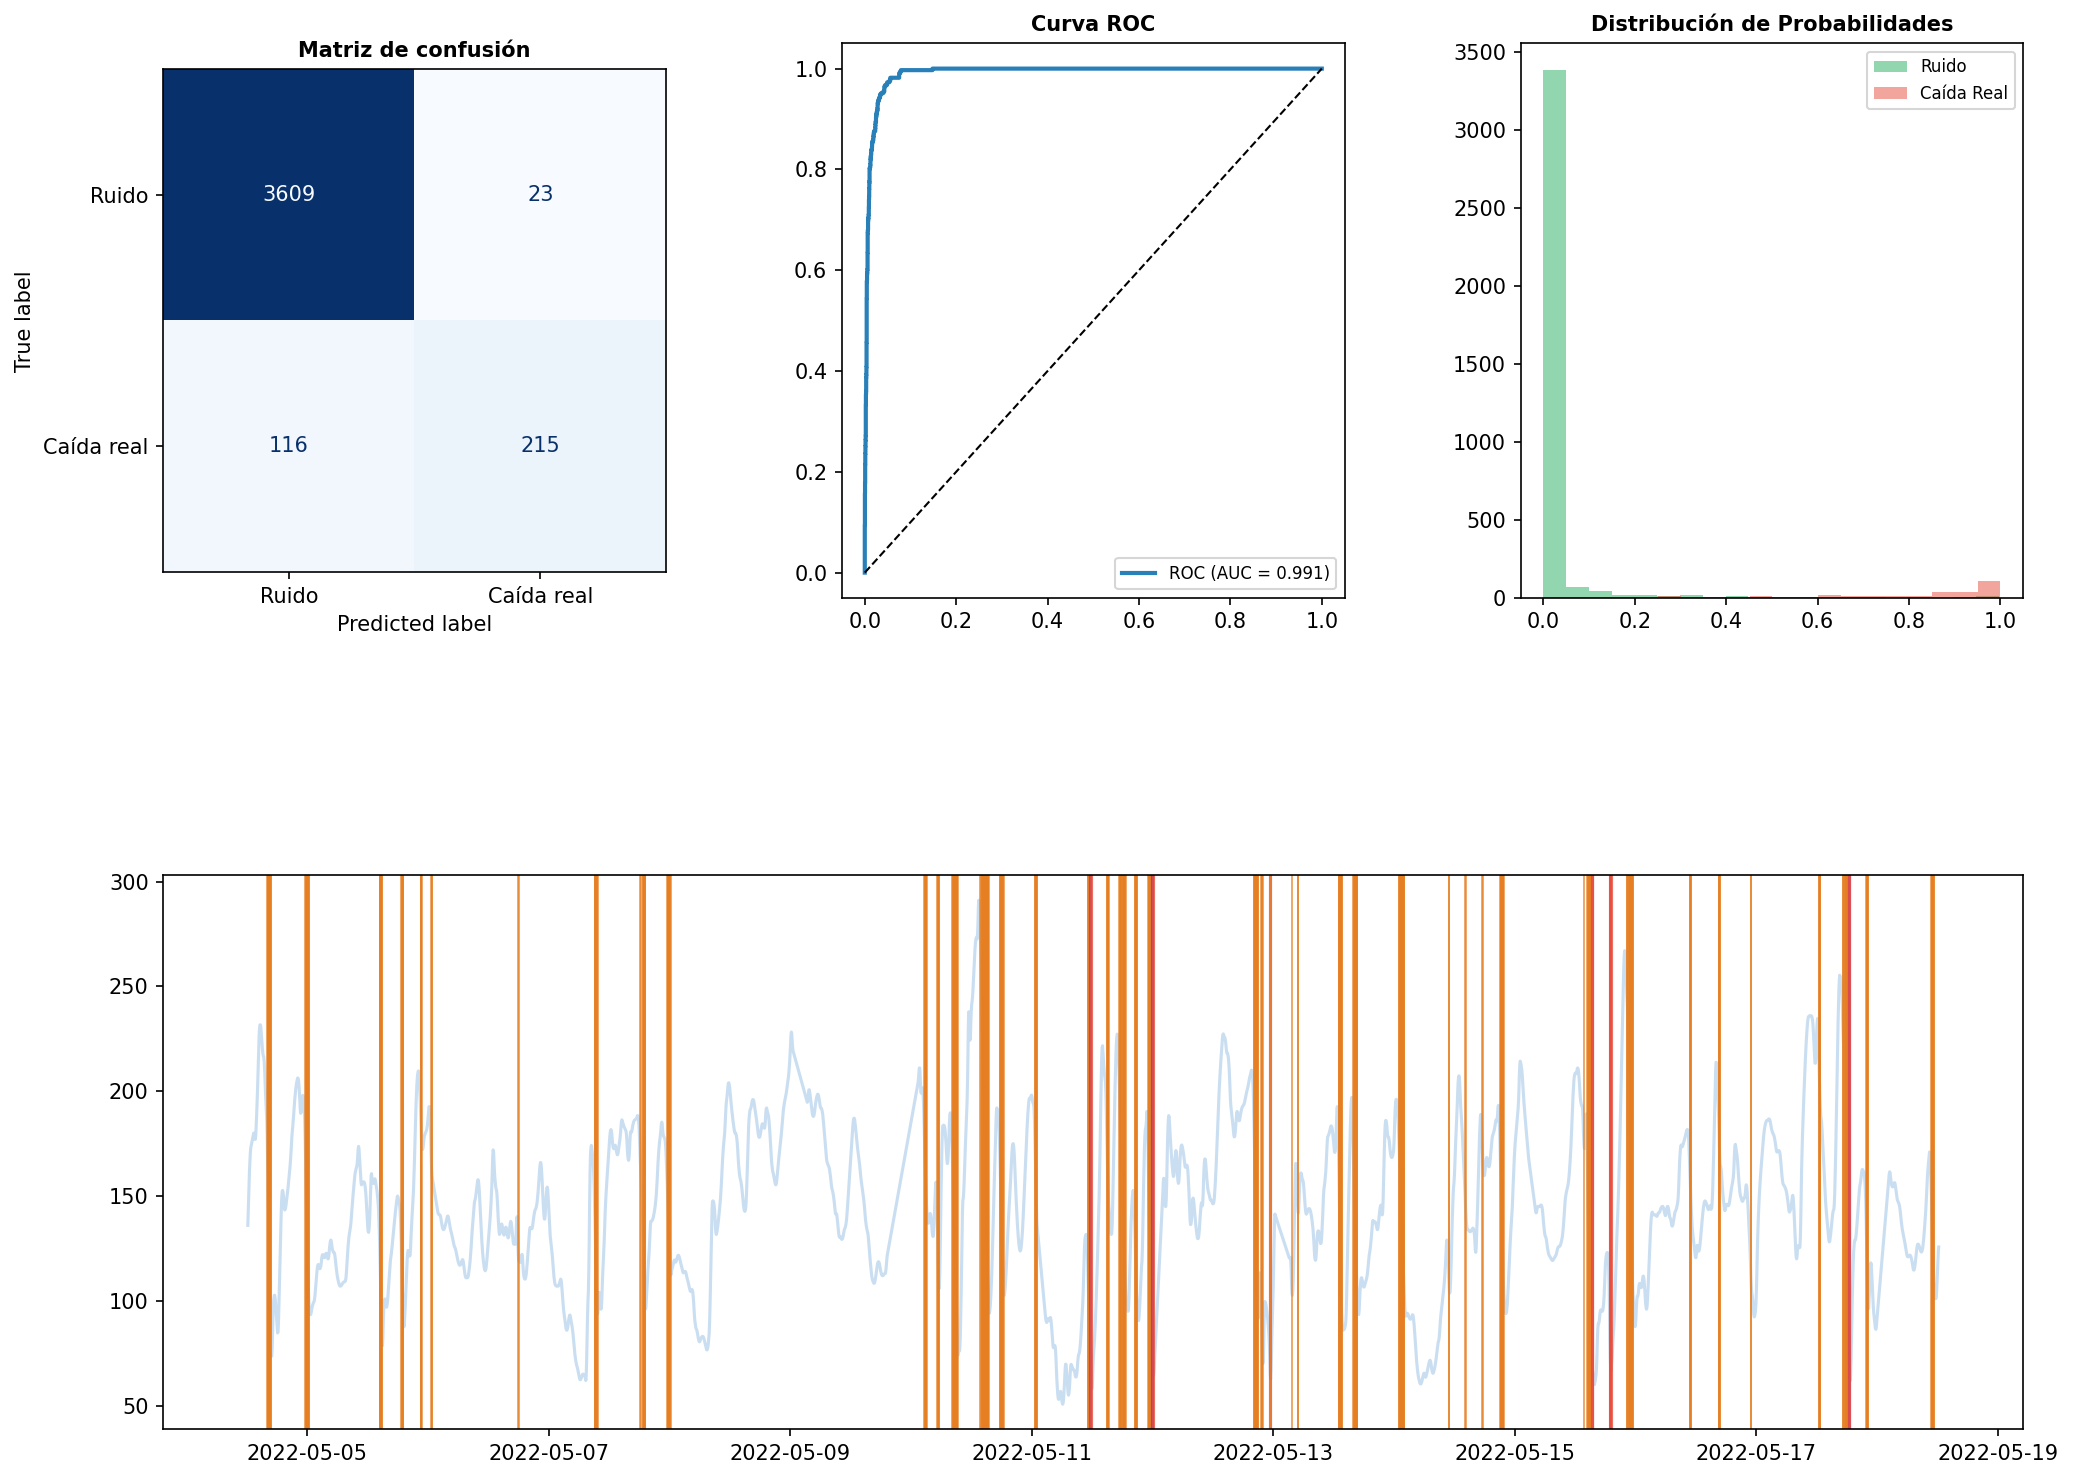
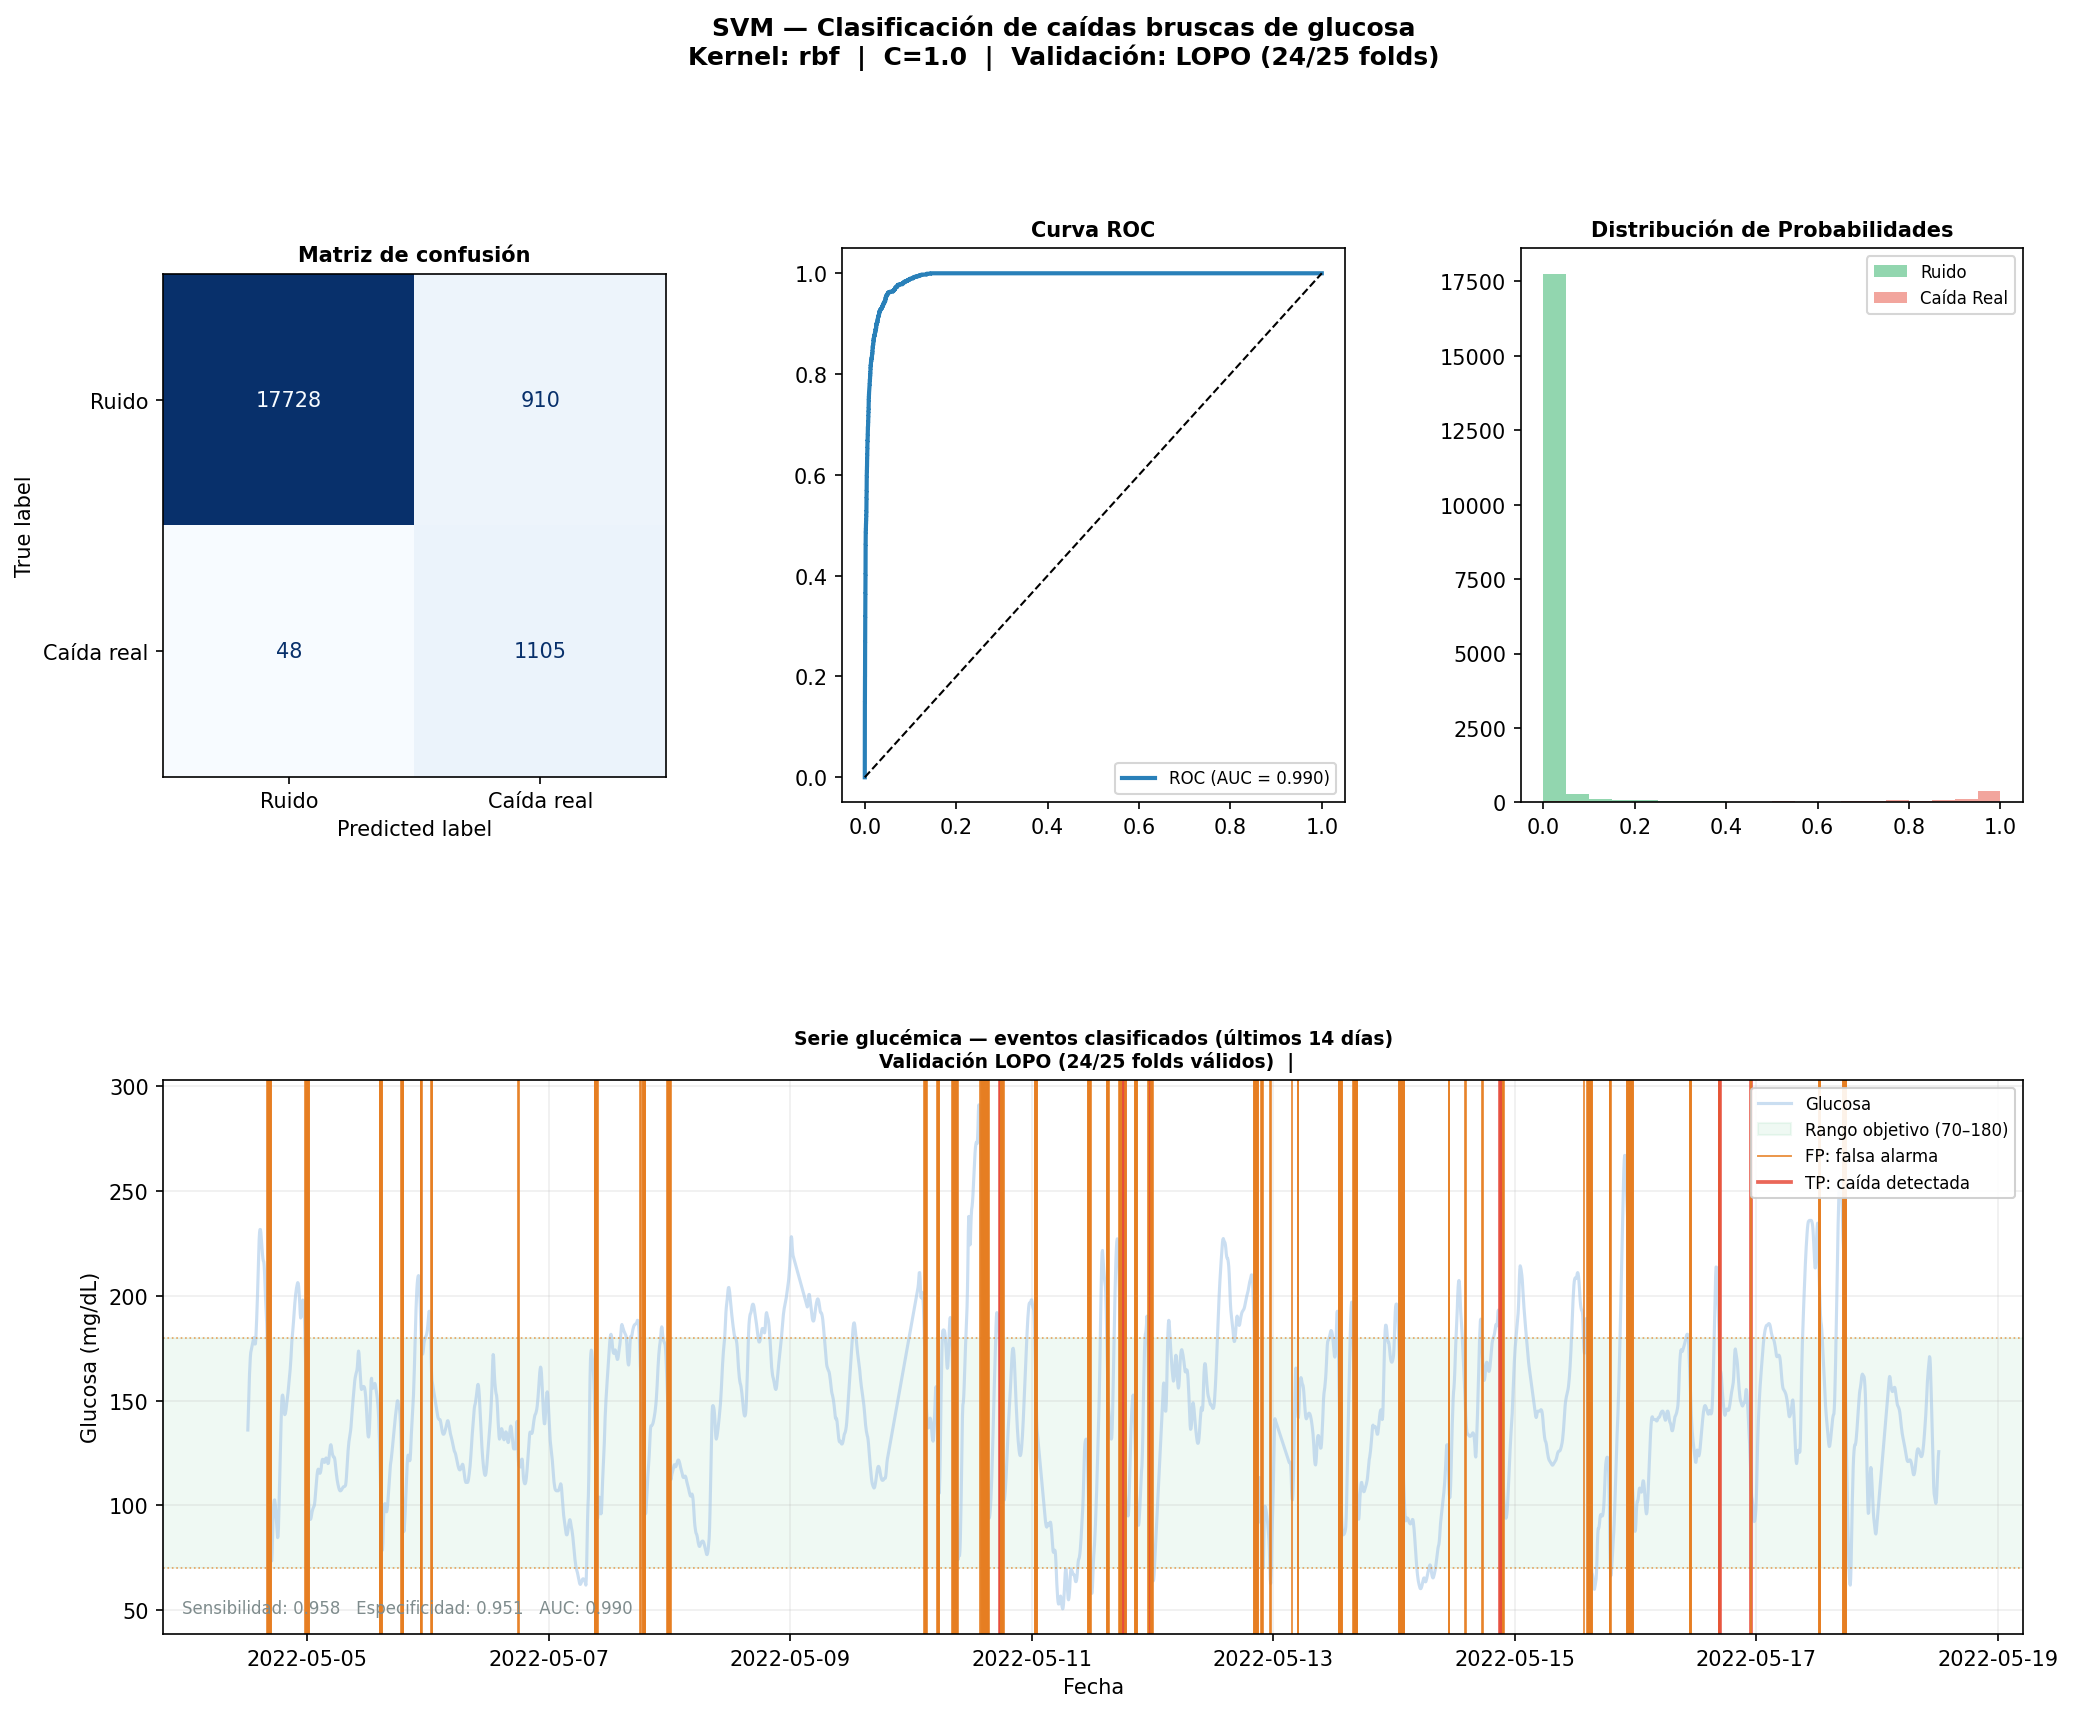
version numero 1

diff --git a/ML/SVM.py b/ML/SVM.py
@@ -1,4 +1,5 @@
 # SVM para clasificación de caídas bruscas de glucosa.
+# Validación: Leave-One-Patient-Out (LOPO) — el estándar en datos clínicos.
 
 import os
 import numpy as np
@@ -13,16 +14,16 @@ from ML.config import (
     GLUCOSE_COL, FEATURES, FEATURES_OPCIONALES,
     HYPO_THRESHOLD, DROP_STEPS, DROP_THRESHOLD,
     SVM_C, SVM_KERNEL, SVM_GAMMA,
-    TRAIN_RATIO,
 )
 
 
+# ---------------------------------------------------------------------------
 # ETIQUETADO DE CAÍDAS BRUSCAS
+# ---------------------------------------------------------------------------
 
 def etiquetar_caidas(df: pd.DataFrame, features: list) -> tuple:
-
-    # Detecta caídas bruscas dentro de un DataFrame de un único paciente.
-    # No se mezclan ventanas entre pacientes.
+    """Detecta caídas bruscas dentro de un DataFrame de un único paciente.
+    No se mezclan ventanas entre pacientes."""
 
     g = df[GLUCOSE_COL].values
     delta_ventana = np.array([
@@ -44,40 +45,95 @@ def etiquetar_caidas(df: pd.DataFrame, features: list) -> tuple:
 
 
 def etiquetar_todos_pacientes(df_global: pd.DataFrame, features: list) -> tuple:
-
-    # Llama a etiquetar_caidas para cada paciente por separado y combina.
-    # Esto evita que la ventana deslizante cruce el límite entre pacientes.
-    
-    X_total, y_total, idx_total = [], [], []
+    """Llama a etiquetar_caidas para cada paciente por separado y combina.
+    Devuelve también el mapping paciente -> índices de sus eventos."""
+    X_total, y_total, idx_total, pac_ids = [], [], [], []
     for pid, grupo in df_global.groupby("patient_id", sort=False):
         X_p, y_p, idx_p = etiquetar_caidas(grupo, features)
         if len(X_p) > 0:
             X_total.append(X_p)
             y_total.append(y_p)
             idx_total.extend(idx_p)
+            pac_ids.extend([pid] * len(X_p))
     if not X_total:
-        return np.array([]), np.array([]), []
-    return np.vstack(X_total), np.concatenate(y_total), idx_total
+        return np.array([]), np.array([]), [], np.array([])
+    return (
+        np.vstack(X_total),
+        np.concatenate(y_total),
+        idx_total,
+        np.array(pac_ids),
+    )
 
 
-# ENTRENAMIENTO
+# ---------------------------------------------------------------------------
+# VALIDACIÓN LEAVE-ONE-PATIENT-OUT (LOPO)
+# ---------------------------------------------------------------------------
 
-def entrenar_svm(X_train, y_train):
-    print(f"\n[SVM] Entrenando SVM (kernel={SVM_KERNEL}, C={SVM_C})...")
-    pipeline = Pipeline([
-        ("scaler", StandardScaler()),
-        ("svm",    SVC(C=SVM_C, kernel=SVM_KERNEL, gamma=SVM_GAMMA, probability=True, random_state=42)),
-    ])
-    pipeline.fit(X_train, y_train)
-    return pipeline
+def _lopo_cv(X: np.ndarray, y: np.ndarray, pac_ids: np.ndarray) -> dict:
+    # Leave-One-Patient-Out cross-validation.
+    
+    # En cada fold un paciente actúa como test y el resto como train.
+    # Evita la fuga de información entre pacientes y es el estándar para evaluar modelos en datos clínicos con múltiples sujetos.
+
+    pacientes = np.unique(pac_ids)
+    n_folds   = len(pacientes)
+    print(f"\n[SVM] Leave-One-Patient-Out CV  ({n_folds} folds)...")
+
+    y_test_all,  y_pred_all, y_prob_all = [], [], []
+    pac_test_all = []
+
+    for fold_i, pac_test in enumerate(pacientes, 1):
+        mask_test  = pac_ids == pac_test
+        mask_train = ~mask_test
+
+        X_tr, y_tr = X[mask_train], y[mask_train]
+        X_te, y_te = X[mask_test],  y[mask_test]
+
+        # Saltar fold si alguna partición no tiene las dos clases
+
+        if len(np.unique(y_tr)) < 2:
+            print(f"  [fold {fold_i:>2}/{n_folds}] {pac_test}: SKIP — train sin ambas clases")
+            continue
+        if len(np.unique(y_te)) < 2:
+            print(f"  [fold {fold_i:>2}/{n_folds}] {pac_test}: SKIP — test sin ambas clases")
+            continue
+
+        pipe = Pipeline([
+            ("scaler", StandardScaler()),
+            ("svm",    SVC(C=SVM_C, kernel=SVM_KERNEL, gamma=SVM_GAMMA, probability=True, class_weight="balanced", random_state=42)),
+        ])
+        pipe.fit(X_tr, y_tr)
+        y_pred = pipe.predict(X_te)
+        y_prob = pipe.predict_proba(X_te)[:, 1]
+
+        acc_fold = (y_pred == y_te).mean()
+        print(f"  [fold {fold_i:>2}/{n_folds}] test={pac_test}  " f"n_test={len(y_te):>4}  acc={acc_fold:.3f}  " f"caídas={y_te.sum()}")
+
+        y_test_all.append(y_te)
+        y_pred_all.append(y_pred)
+        y_prob_all.append(y_prob)
+        pac_test_all.extend([pac_test] * len(y_te))
+
+    if not y_test_all:
+        return {}
+
+    y_test = np.concatenate(y_test_all)
+    y_pred = np.concatenate(y_pred_all)
+    y_prob = np.concatenate(y_prob_all)
+
+    return {
+        "y_test": y_test,
+        "y_pred": y_pred,
+        "y_prob": y_prob,
+        "n_folds_usados": len(y_test_all),
+        "n_folds_total":  n_folds,
+    }
 
 
-# EVALUACIÓN
 
-def evaluar_svm(pipeline, X_test, y_test) -> dict:
-    y_pred = pipeline.predict(X_test)
-    y_prob = pipeline.predict_proba(X_test)[:, 1]
+# EVALUACIÓN AGREGADA
 
+def evaluar_svm(y_test: np.ndarray, y_pred: np.ndarray, y_prob: np.ndarray) -> dict:
     cm = confusion_matrix(y_test, y_pred, labels=[0, 1])
     tn, fp, fn, tp = cm.ravel()
 
@@ -132,31 +188,30 @@ def ejecutar_svm() -> dict:
 
     features = list(FEATURES) + [f for f in FEATURES_OPCIONALES if f in df.columns]
 
-    X, y, indices = etiquetar_todos_pacientes(df, features)
+    X, y, indices, pac_ids = etiquetar_todos_pacientes(df, features)
 
     if len(X) < 10:
         print("[SVM] ⚠ Insuficientes eventos detectados para entrenar.")
         return {}
 
-    print(f"[SVM] Eventos detectados: {len(X)}  (caídas reales: {y.sum()}, ruido: {(y==0).sum()})")
+    print(f"[SVM] Eventos detectados: {len(X)}  " f"(caídas reales: {y.sum()}, ruido: {(y==0).sum()})  " f"pacientes: {len(np.unique(pac_ids))}")
 
-    # División TEMPORAL (no aleatoria) — igual que RF
-    n_train = int(len(X) * TRAIN_RATIO)
-    X_train, X_test = X[:n_train], X[n_train:]
-    y_train, y_test = y[:n_train], y[n_train:]
-    idx_test = indices[n_train:]
-
-    # Comprobación mínima de clases
-    if len(np.unique(y_train)) < 2 or len(np.unique(y_test)) < 2:
-        print("[SVM] Una de las particiones no tiene ambas clases. " "Aumentar el número de pacientes o revisar umbrales.")
+    # LOPO cross-validation 
+    lopo = _lopo_cv(X, y, pac_ids)
+    if not lopo:
+        print("[SVM] ⚠ LOPO CV no produjo resultados válidos.")
         return {}
 
-    pipeline = entrenar_svm(X_train, y_train)
-    metricas = evaluar_svm(pipeline, X_test, y_test)
+    metricas = evaluar_svm(lopo["y_test"], lopo["y_pred"], lopo["y_prob"])
     metricas.update({
-        "y_test"       : y_test,
-        "indices_test" : idx_test,
-        "n_pacientes"  : len(INPUT_FILES),
+        "y_test"        : lopo["y_test"],
+        "y_pred"        : lopo["y_pred"],
+        "y_prob"        : lopo["y_prob"],
+        "indices_test"  : indices,          # se usa sólo para la serie temporal
+        "n_pacientes"   : len(INPUT_FILES),
+        "n_folds_usados": lopo["n_folds_usados"],
+        "n_folds_total" : lopo["n_folds_total"],
+        "validacion"    : "LOPO",
     })
 
     os.makedirs(OUTPUT_DIR, exist_ok=True)
@@ -166,4 +221,4 @@ def ejecutar_svm() -> dict:
     generar_dashboard_svm(metricas, df)
     escribir_reporte_svm(metricas)
 
-    return {"svm_pipeline": pipeline, "metricas": metricas}
+    return {"metricas": metricas}

diff --git a/ML/visualizacion.py b/ML/visualizacion.py
@@ -166,13 +166,54 @@ def generar_dashboard_svm(metricas: dict, df: pd.DataFrame) -> None:
     fecha_ini = df.index.max() - pd.Timedelta(days=n_dias)
     df_plot = df.loc[fecha_ini:]
     ax4.plot(df_plot.index, df_plot[GLUCOSE_COL], color="#A8C8E8", alpha=0.6, label="Glucosa")
-    
-    # Marcadores de eventos
-    for idx, pred, real in zip(indices_test, y_pred, y_test):
-        if idx < fecha_ini: continue
-        color = C2 if (pred == 1 and real == 1) else ("#8E44AD" if real == 1 else "#E67E22")
-        ax4.axvline(idx, color=color, alpha=0.8, lw=1.5 if real == 1 else 0.8)
+    ax4.axhspan(70, 180, alpha=0.07, color=C3, label="Rango objetivo (70–180)")
+    ax4.axhline(70,  color="#E67E22", lw=0.8, ls=":", alpha=0.7)
+    ax4.axhline(180, color="#E67E22", lw=0.8, ls=":", alpha=0.7)
 
+    # Marcadores de eventos (sólo los que caen en la ventana visible)
+    import matplotlib.patches as mpatches
+    visto_tp = visto_fn = visto_fp = False
+    for idx, pred, real in zip(indices_test, y_pred, y_test):
+        if idx < fecha_ini:
+            continue
+        if pred == 1 and real == 1:          # TP — caída real detectada
+            color, lw_, label_ = C2,      1.8, "TP: caída detectada" if not visto_tp else "_"
+            visto_tp = True
+        elif real == 1:                       # FN — caída real no detectada
+            color, lw_, label_ = "#8E44AD", 1.5, "FN: caída no detectada" if not visto_fn else "_"
+            visto_fn = True
+        else:                                 # FP — falsa alarma
+            color, lw_, label_ = "#E67E22", 0.9, "FP: falsa alarma" if not visto_fp else "_"
+            visto_fp = True
+        ax4.axvline(idx, color=color, alpha=0.85, lw=lw_, label=label_)
+
+    n_folds = metricas.get("n_folds_usados", "?")
+    n_tot   = metricas.get("n_folds_total",  "?")
+    sens    = metricas.get("sensibilidad", 0)
+    espec   = metricas.get("especificidad", 0)
+    ax4.set_title(
+        f"Serie glucémica — eventos clasificados (últimos {n_dias} días)\n"
+        f"Validación LOPO ({n_folds}/{n_tot} folds válidos)  |  ",
+        fontweight="bold", fontsize=9,
+    )
+    ax4.set_ylabel("Glucosa (mg/dL)")
+    ax4.set_xlabel("Fecha")
+    ax4.legend(fontsize=8, loc="upper right", framealpha=0.9)
+    ax4.grid(alpha=0.2)
+
+    # Barra de estado: métricas clave bajo el subplot
+    ax4.text(
+        0.01, 0.03,
+        f"Sensibilidad: {sens:.3f}   Especificidad: {espec:.3f}   AUC: {roc_auc:.3f}",
+        transform=ax4.transAxes, fontsize=8, color=FG_DIM if 'FG_DIM' in dir() else "#7F8C8D",
+        va="bottom",
+    )
+
+    plt.suptitle(
+        f"SVM — Clasificación de caídas bruscas de glucosa\n"
+        f"Kernel: {SVM_KERNEL}  |  C={SVM_C}  |  Validación: LOPO ({n_folds}/{n_tot} folds)",
+        fontsize=12, fontweight="bold", y=1.01,
+    )
     plt.savefig(PLOT_SVM, dpi=150, bbox_inches="tight")
     plt.close()
 
@@ -275,7 +316,7 @@ ARCHIVOS = {
     "Preprocessing":  _ruta("Preprocessing", "output", "Preprocessing.txt"),
     "Random Forest":          _ruta("ML", "output", "RF_importancia_features.png"),
     "SVM":                    _ruta("ML", "output", "SVM_clasificacion.png"), 
-    "Clarke Error Grid":      _ruta ("ML" "output", "RF_clarke_error_grid.png"),
+    "Clarke Error Grid":      _ruta("ML", "output", "RF_clarke_error_grid.png"),
     "Reporte ML":             _ruta("ML", "output", "ML_reporte.txt"),
 }
 

diff --git a/ML/random_forest.py b/ML/random_forest.py
@@ -8,6 +8,7 @@ import pandas as pd
 from sklearn.ensemble import RandomForestRegressor
 from sklearn.metrics import mean_squared_error, mean_absolute_error, r2_score
 from sklearn.inspection import permutation_importance
+from sklearn.model_selection import GridSearchCV, KFold
 
 from ML.config import (
     TRAIN_FILES, TEST_FILES,
@@ -60,17 +61,47 @@ def _construir_xy(df: pd.DataFrame, features: list) -> tuple:
 # ENTRENAMIENTO
 
 def _train_rf(X_train: np.ndarray, y_train: np.ndarray) -> RandomForestRegressor:
-    print(f"\n[RF] Entrenando Random Forest ({RF_N_ESTIMATORS} árboles, {len(X_train):,} muestras)...")
-    model = RandomForestRegressor(
-        n_estimators     = RF_N_ESTIMATORS,
-        max_depth        = RF_MAX_DEPTH,
-        min_samples_leaf = RF_MIN_SAMPLES,
-        random_state     = RF_RANDOM_STATE,
-        n_jobs           = -1,
+
+    #Entrena el Random Forest con búsqueda de hiperparámetros con GridSearchCV.
+
+    # n_estimators     : número de árboles (300 es suficiente, más no mejora significativamente)
+    # max_depth        : None = los nodos crecen hasta hojas puras, limitar reduce varianza
+    # min_samples_leaf : mínimo de muestras en hoja que actúa como regularización implícita
+
+    # La validación cruzada usa 3 folds temporales (TimeSeriesSplit no aplica bien aquí
+    # porque los datos son de distintos pacientes, se usa KFold shuffle=False para
+    # respetar el orden temporal dentro de cada fold).
+
+    print(f"\n[RF] Búsqueda de hiperparámetros (GridSearchCV) con {len(X_train):,} muestras...")
+
+    param_grid = {
+        "n_estimators"    : [100, 300],
+        "max_depth"       : [None, 20],
+        "min_samples_leaf": [5, 10],
+    }
+
+    base_model = RandomForestRegressor(
+        random_state = RF_RANDOM_STATE,
+        n_jobs       = -1,
     )
-    model.fit(X_train, y_train)
-    print("      -> Entrenamiento completado")
-    return model
+
+    cv = KFold(n_splits=3, shuffle=False)   # shuffle=False respeta orden temporal
+    gs = GridSearchCV(
+        estimator  = base_model,
+        param_grid = param_grid,
+        cv         = cv,
+        scoring    = "neg_root_mean_squared_error",
+        n_jobs     = -1,
+        verbose    = 1,
+        refit      = True,
+    )
+    gs.fit(X_train, y_train)
+
+    best = gs.best_params_
+    print(f"      -> Mejores hiperparámetros: {best}")
+    print(f"      -> RMSE CV (train): {-gs.best_score_:.2f} mg/dL")
+    print("      -> Reentrenando con todos los datos de train...")
+    return gs.best_estimator_
 
 
 # EVALUACIÓN
@@ -99,7 +130,7 @@ def _evaluar(
         model.feature_importances_, index=features
     ).sort_values(ascending=False)
 
-    print("\n[RF] Calculando importancia por permutación (puede tardar ~30 s)...")
+    print("\n[RF] Calculando importancia por permutación:")
     perm = permutation_importance(
         model, X_test, y_test,
         n_repeats=15, random_state=RF_RANDOM_STATE, n_jobs=-1,

diff --git a/main.py b/main.py
@@ -20,15 +20,13 @@ N_TRAIN_PATIENTS = 20
 
 
 # ---------------------------------------------------------------------------
-# PREPROCESAMIENTO DE UN ÚNICO PACIENTE
+# PREPROCESAMIENTO
 # ---------------------------------------------------------------------------
 
 def preprocesar_paciente(input_path: str) -> str:
-    import config as cfg
-    cfg.INPUT_FILE  = input_path
-    cfg.OUTPUT_FILE = input_path.replace(".csv", "_preprocessing.csv")
-
-    patient_id = os.path.splitext(os.path.basename(input_path))[0]
+    
+    output_path = input_path.replace(".csv", "_preprocessing.csv")
+    patient_id  = os.path.splitext(os.path.basename(input_path))[0]
 
     df = carga.cargar_datos(filepath=input_path)
     df = rango_sensor.corregir_rango_sensor(df)
@@ -37,11 +35,11 @@ def preprocesar_paciente(input_path: str) -> str:
     df = iob.compute_iob(df)
     df = cob.compute_cob(df)
 
-    df.to_csv(cfg.OUTPUT_FILE)
+    df.to_csv(output_path)
     visualizacion.generar_diagnostico(df, patient_id=patient_id)
 
-    print(f"  [OK] {os.path.basename(input_path)} -> {cfg.OUTPUT_FILE}\n")
-    return cfg.OUTPUT_FILE
+    print(f"  [OK] {os.path.basename(input_path)} -> {output_path}\n")
+    return output_path
 
 
 # ---------------------------------------------------------------------------
@@ -120,6 +118,7 @@ def ejecutar_ml(csv_paths: list):
     svm.ejecutar_svm()
 
     # Clarke Error Grid (evaluación clínica del Random Forest)
+
     print("\n" + "=" * 68)
     print("  CLARKE ERROR GRID")
     print("=" * 68)

diff --git a/Preprocessing/carga.py b/Preprocessing/carga.py
@@ -5,7 +5,7 @@ from config import INPUT_FILE, TIME_COL
 
 def cargar_datos(filepath: str = INPUT_FILE) -> pd.DataFrame:
     print("=" * 68)
-    print("FASE 1 -- PREPROCESAMIENTO  |  Dataset HUPA-UCM")
+    print("PREPROCESSING |  Dataset HUPA-UCM")
     print("=" * 68)
     print(f"\n[0] Cargando archivo: {filepath}")
 